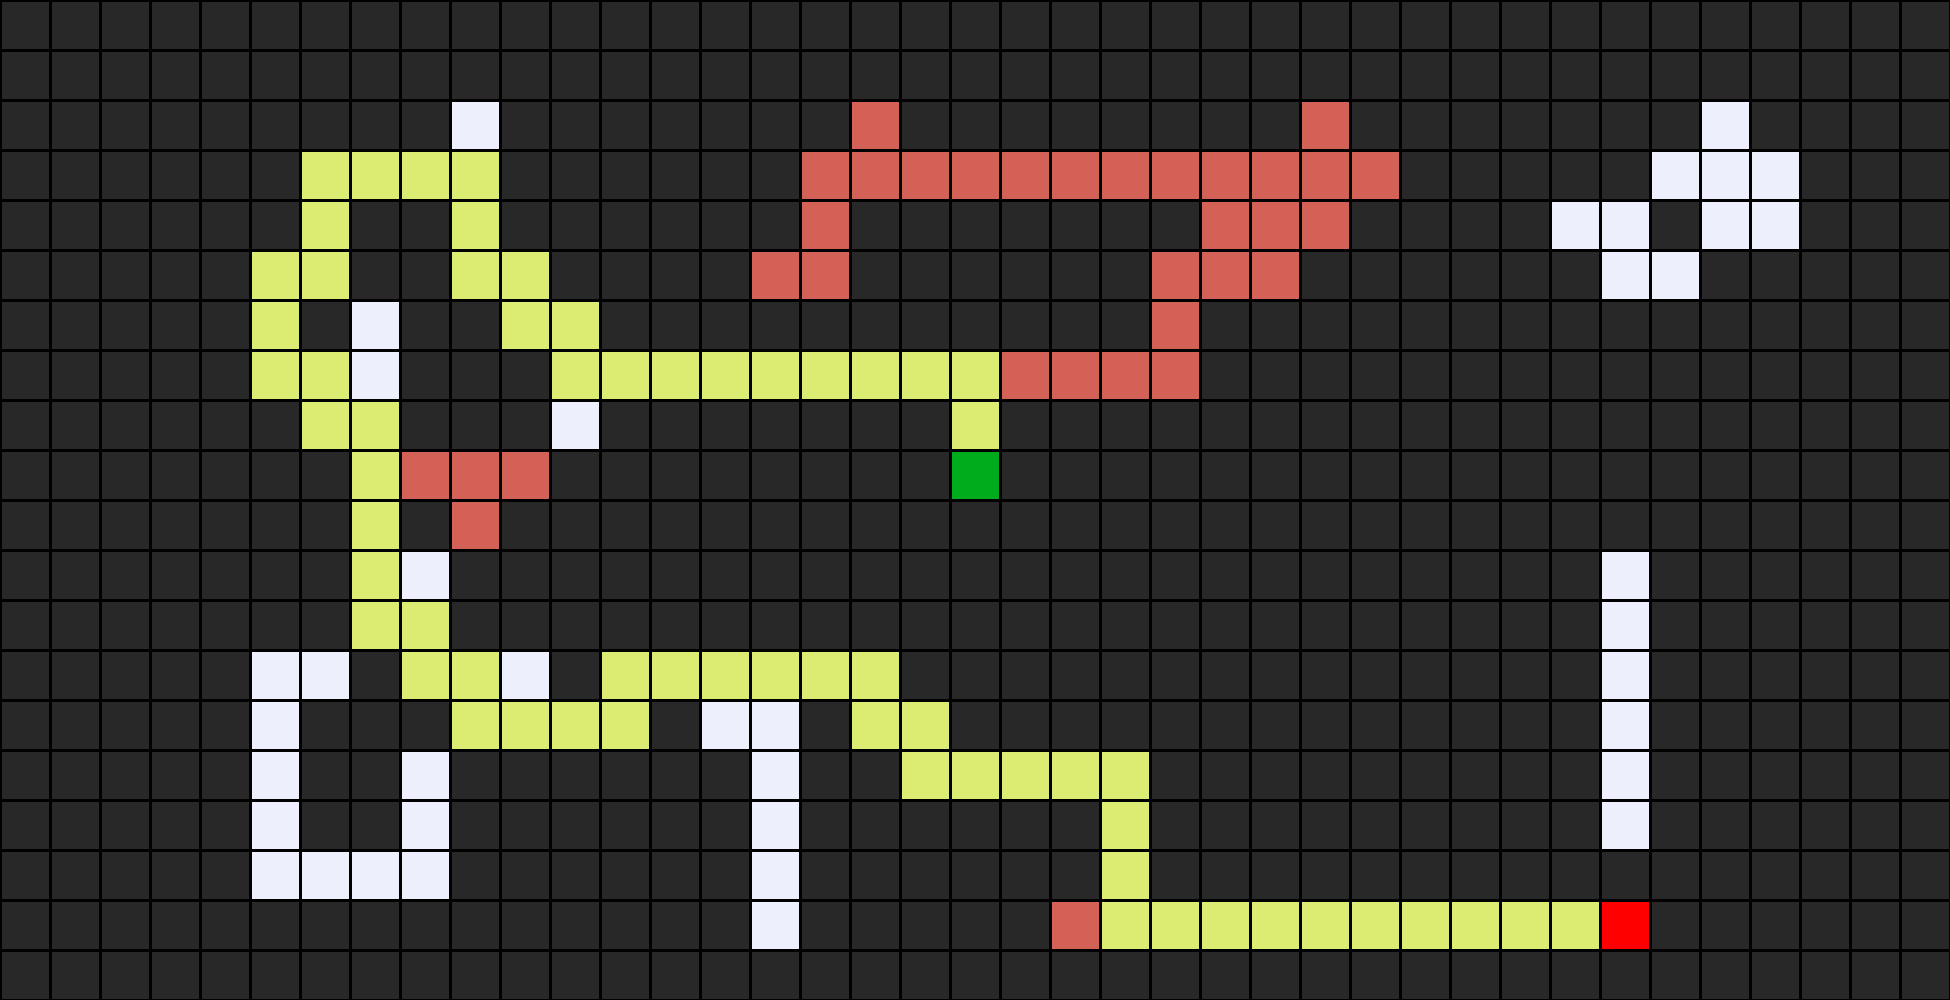
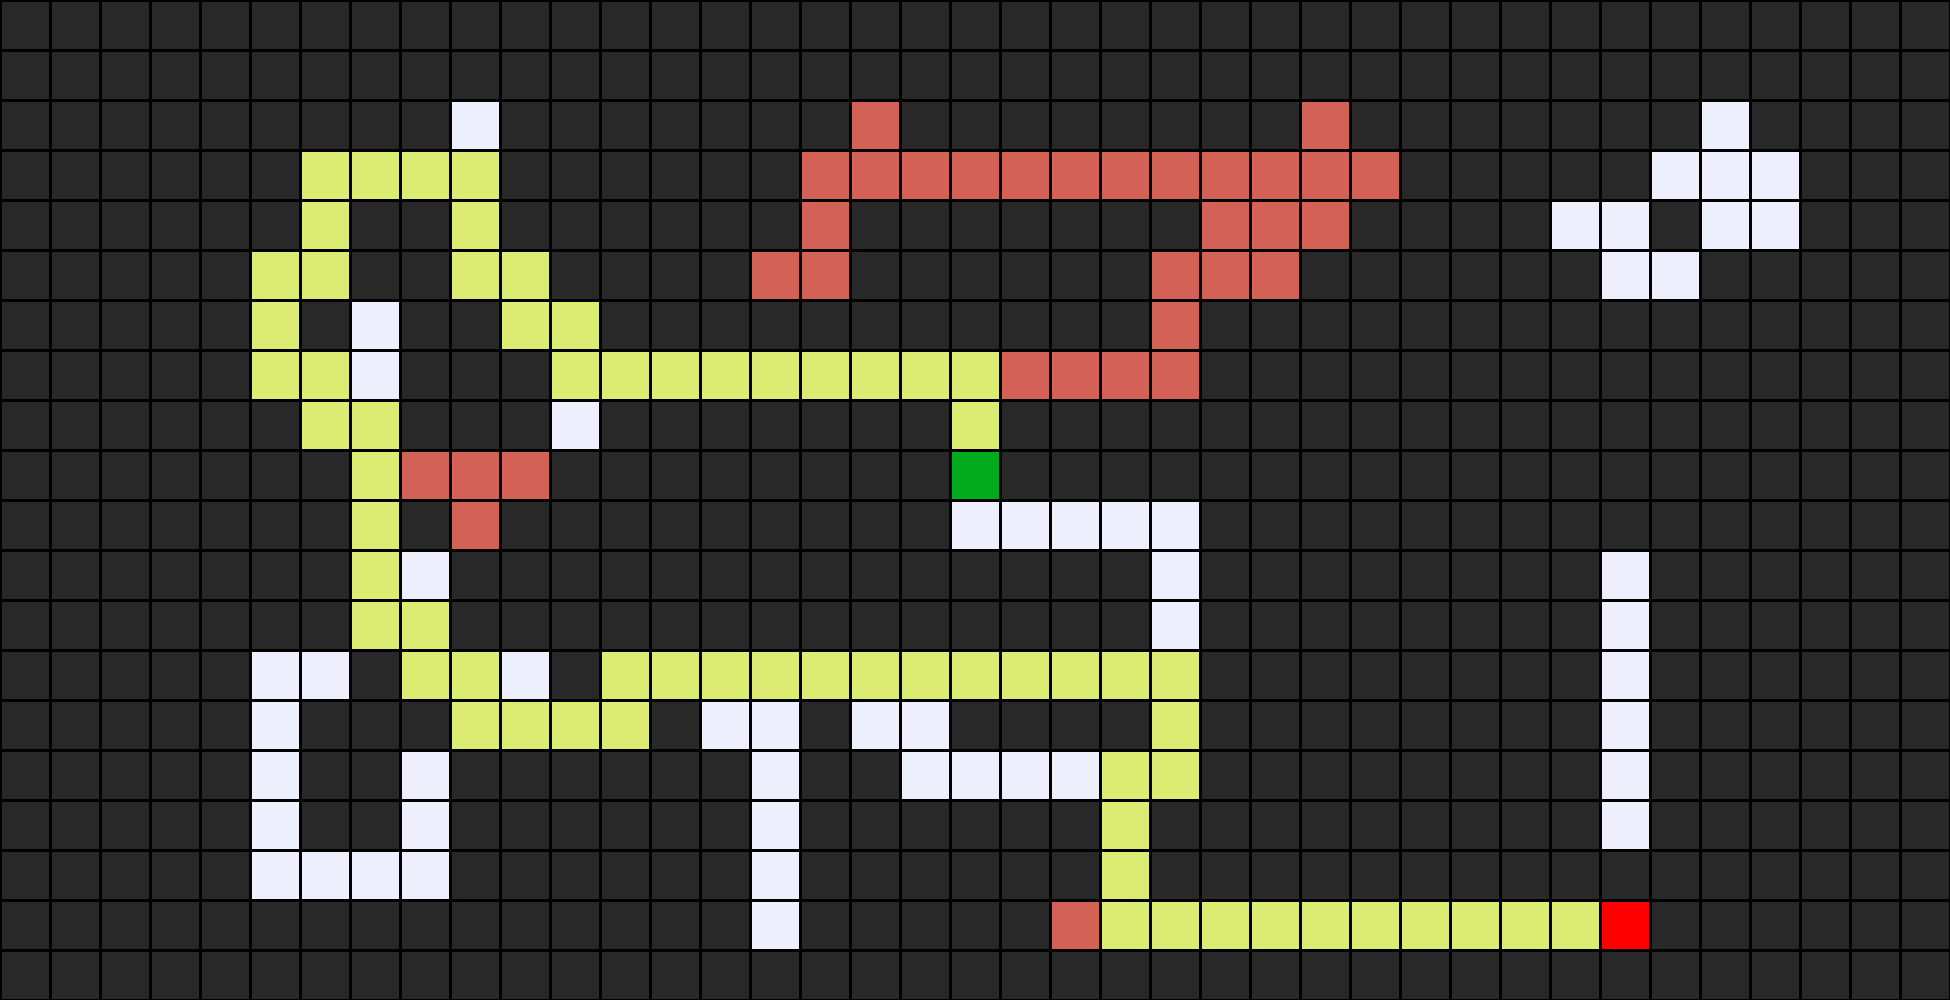
added Dfs.py

Changed region(s): [[0.4308, 0.496, 0.6154, 0.806]]

diff --git a/Dfs.py b/Dfs.py
@@ -124,7 +124,7 @@ class Maze():
 
         # Initialize frontier to just the starting position
         start = Node(state=self.start, parent=None, action=None)
-        frontier = QueueFrontier()
+        frontier = StackFrontier()
         frontier.add(start)
 
         # Initialize an empty explored set
@@ -211,7 +211,7 @@ class Maze():
                     fill=fill
                 )
 
-        img.save("Bfs.png")
+        img.save(filename)
 
 
 if len(sys.argv) != 2:
